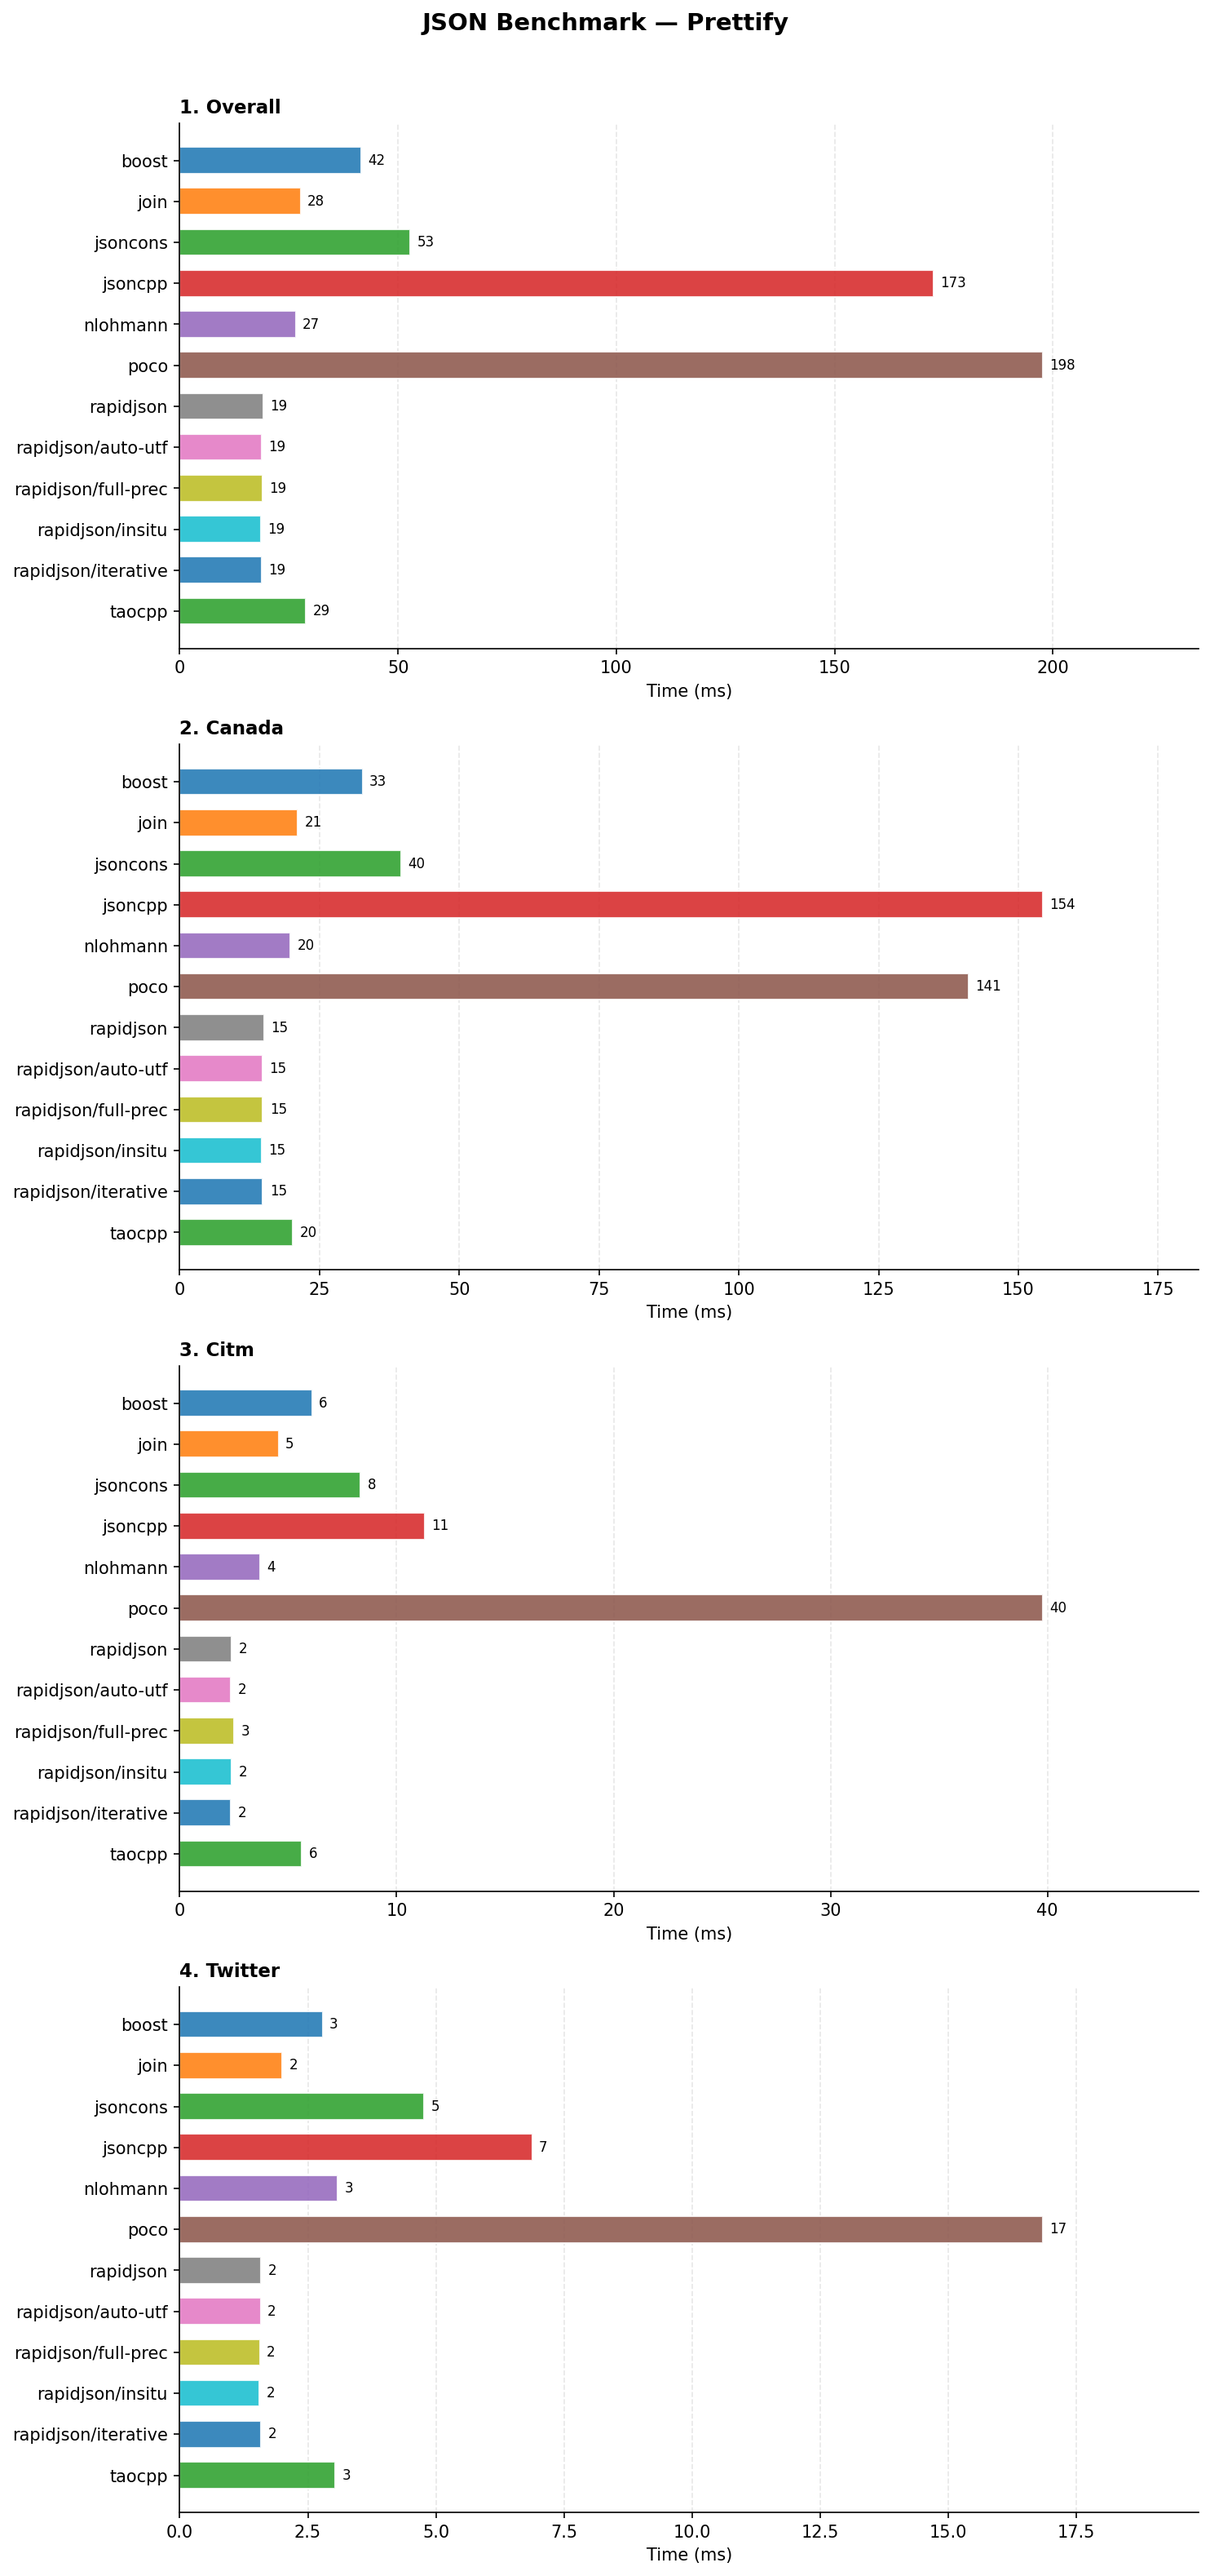
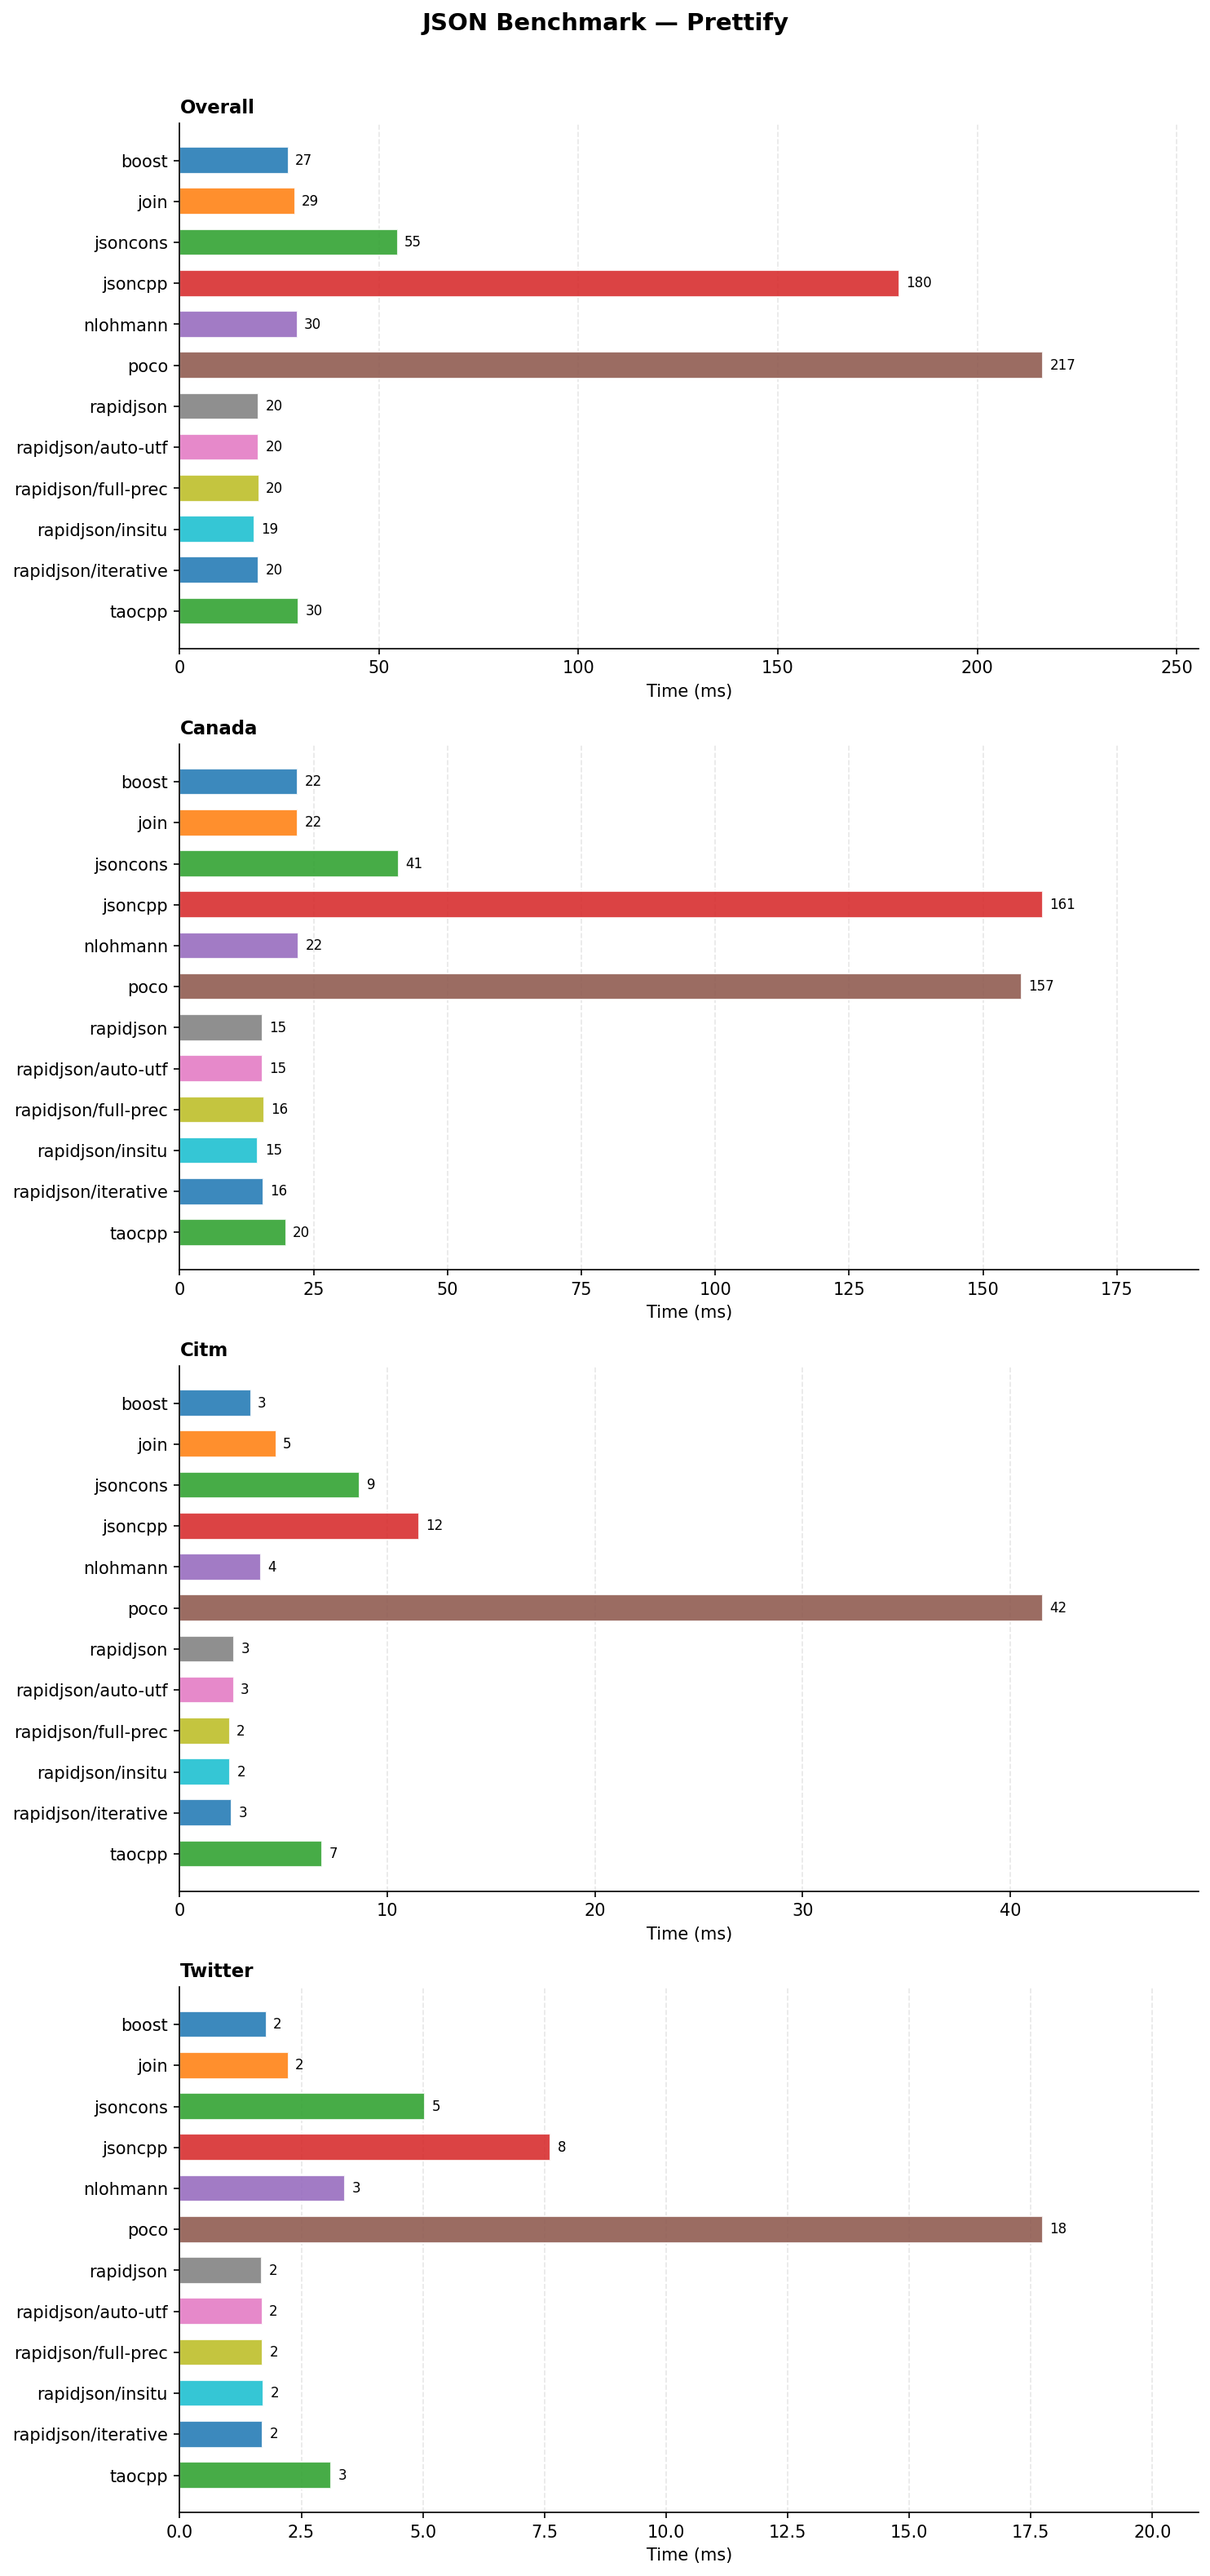
update results

diff --git a/plots/plot.py b/plots/plot.py
@@ -93,17 +93,17 @@ def plot_deserialize(df: pd.DataFrame, output_dir: Path) -> None:
 
     idx = 0
     totals = parse_df.groupby("library")["time_ms"].sum().sort_index(ascending=False)
-    _barh_ax(axes[idx], totals.index.tolist(), totals.values.tolist(), "1. Parse (overall)")
+    _barh_ax(axes[idx], totals.index.tolist(), totals.values.tolist(), "Overall")
     idx += 1
 
     for dataset in datasets:
         sub = parse_df[parse_df["dataset"] == dataset].groupby("library")["time_ms"].sum().sort_index(ascending=False)
-        _barh_ax(axes[idx], sub.index.tolist(), sub.values.tolist(), f"{idx + 1}. Parse — {dataset}")
+        _barh_ax(axes[idx], sub.index.tolist(), sub.values.tolist(), dataset)
         idx += 1
 
     if has_stats:
         totals = stats_df.groupby("library")["time_ms"].sum().sort_index(ascending=False)
-        _barh_ax(axes[idx], totals.index.tolist(), totals.values.tolist(), f"{idx + 1}. DOM Statistics")
+        _barh_ax(axes[idx], totals.index.tolist(), totals.values.tolist(), "DOM Statistics")
 
     fig.tight_layout(rect=[0, 0, 1, 0.97])
     out = output_dir / "performance_parse.png"
@@ -127,11 +127,11 @@ def _plot_write_bench(df: pd.DataFrame, output_dir: Path, bench_type: str, filen
     fig.suptitle(title, fontsize=14, fontweight="bold")
 
     totals = sub_df.groupby("library")["time_ms"].sum().sort_index(ascending=False)
-    _barh_ax(axes[0], totals.index.tolist(), totals.values.tolist(), "1. Overall")
+    _barh_ax(axes[0], totals.index.tolist(), totals.values.tolist(), "Overall")
 
     for idx, dataset in enumerate(datasets, start=1):
         per = sub_df[sub_df["dataset"] == dataset].groupby("library")["time_ms"].sum().sort_index(ascending=False)
-        _barh_ax(axes[idx], per.index.tolist(), per.values.tolist(), f"{idx + 1}. {dataset}")
+        _barh_ax(axes[idx], per.index.tolist(), per.values.tolist(), dataset)
 
     fig.tight_layout(rect=[0, 0, 1, 0.97])
     out = output_dir / filename
@@ -209,7 +209,7 @@ def plot_conformance(conf_path: str, output_dir: Path) -> None:
 
         ax.set_xlabel("%")
         ax.set_xlim(0, 115)
-        ax.set_title(label, fontsize=11, loc="left", pad=6)
+        ax.set_title(label, fontsize=11, fontweight="bold", loc="left", pad=6)
         _style_ax(ax)
 
     fig.tight_layout(rect=[0, 0, 1, 0.97])

diff --git a/benchmarks/adapters/simdjson.hpp b/benchmarks/adapters/simdjson.hpp
@@ -62,8 +62,8 @@ namespace simdjson_detail
 
     inline void pretty_impl (std::string& out, simdjson::dom::element e, int indent, int depth)
     {
-        const std::string pad (static_cast<size_t> (depth * indent), ' ');
-        const std::string inner (static_cast<size_t> ((depth + 1) * indent), ' ');
+        const auto pad_len   = static_cast<size_t> (depth * indent);
+        const auto inner_len = static_cast<size_t> ((depth + 1) * indent);
 
         switch (e.type ())
         {
@@ -77,7 +77,7 @@ namespace simdjson_detail
                         if (!first)
                             out += ',';
                         out += '\n';
-                        out += inner;
+                        out.append (inner_len, ' ');
                         out += escape_json_string (field.key);
                         out += ": ";
                         pretty_impl (out, field.value, indent, depth + 1);
@@ -86,7 +86,7 @@ namespace simdjson_detail
                     if (!first)
                     {
                         out += '\n';
-                        out += pad;
+                        out.append (pad_len, ' ');
                     }
                     out += '}';
                     break;
@@ -101,14 +101,14 @@ namespace simdjson_detail
                         if (!first)
                             out += ',';
                         out += '\n';
-                        out += inner;
+                        out.append (inner_len, ' ');
                         pretty_impl (out, elem, indent, depth + 1);
                         first = false;
                     }
                     if (!first)
                     {
                         out += '\n';
-                        out += pad;
+                        out.append (pad_len, ' ');
                     }
                     out += ']';
                     break;

diff --git a/README.md b/README.md
@@ -63,7 +63,7 @@ RapidJSON is benchmarked in five configurations to isolate the impact of its par
 | `citm_catalog.json` | ~1.7 MB | Event catalog — deeply nested objects, mixed types |
 | `twitter.json` | ~0.6 MB | Social feed — Unicode strings, many small objects |
 
-Performance time reported per benchmark is the median across all three datasets combined (ms).
+The overall time reported per benchmark is the sum of median times across all three datasets (ms). Each individual measurement is already the median across repetitions.
 
 ## Build
 
@@ -198,13 +198,13 @@ Measured on a development machine. Re-run `scripts/run_bench.sh` to reproduce on
 
 ![Prettify](plots/performance_prettify.png)
 
-**Parse**: **simdjson** leads at 6 ms, more than 1.8× faster than the next best (**RapidJSON** insitu at 11 ms). Among the general-purpose DOM libraries, **RapidJSON**'s in-situ mode leads thanks to its zero-copy string handling, followed closely by the default and iterative variants (13–14 ms) and **Boost.JSON** (15 ms). **Join** (26 ms) sits between **RapidJSON** and the slower libraries. **taocpp/json** (37 ms) is competitive. **jsoncons** (77 ms) and **nlohmann/json** (83 ms) are slower but similar; **POCO** (129 ms) and **JsonCpp** (159 ms) trail significantly.
+**Parse**: **simdjson** leads at 6 ms, more than 1.8× faster than the next best (**RapidJSON** insitu at 12 ms). Among the general-purpose DOM libraries, **RapidJSON**'s in-situ mode leads thanks to its zero-copy string handling, followed closely by the default and iterative variants (14–15 ms) and **Boost.JSON** (16 ms). **Join** (29 ms) sits between **RapidJSON** and the slower libraries. **taocpp/json** (38 ms) is competitive. **jsoncons** (76 ms) and **nlohmann/json** (91 ms) are slower but similar; **POCO** (136 ms) and **JsonCpp** (142 ms) trail significantly.
 
-**Stringify**: **Boost.JSON** leads at 10 ms. All **RapidJSON** variants cluster tightly at ~15 ms. **taocpp/json** (18 ms) and **simdjson** (18 ms, minified output only) follow. **nlohmann/json** (21 ms) and **Join** (22 ms) are close; **jsoncons** (25 ms) is slightly behind. **POCO** (63 ms) and **JsonCpp** (165 ms) are the slowest.
+**Stringify**: **Boost.JSON** leads at 11 ms. All **RapidJSON** variants cluster tightly at ~18 ms. **simdjson** (21 ms, minified output only) and **taocpp/json** (23 ms) follow. **Join** (23 ms) and **nlohmann/json** (24 ms) are close; **jsoncons** (27 ms) is slightly behind. **POCO** (71 ms) and **JsonCpp** (173 ms) are the slowest.
 
-**Prettify**: **RapidJSON** variants lead at 19 ms across all five modes. **nlohmann/json** (27 ms) and **Join** (28 ms) follow, with **taocpp/json** (29 ms) close behind. **Boost.JSON** (42 ms) and **jsoncons** (53 ms) are slower. **JsonCpp** (173 ms) and **POCO** (198 ms) trail by a wide margin.
+**Prettify**: **RapidJSON** variants lead at ~19 ms across all five modes. **Boost.JSON** (27 ms) follows closely. **Join** (29 ms), **nlohmann/json** (30 ms), and **taocpp/json** (30 ms) are close behind. **jsoncons** (55 ms) is slower. **JsonCpp** (180 ms) and **POCO** (217 ms) trail by a wide margin.
 
-**Statistics**: **RapidJSON**'s five variants cluster at ~1 ms — their contiguous memory pool layout maximises cache efficiency. **jsoncons** (1.6 ms), **simdjson** (1.7 ms), **Boost.JSON** (1.9 ms), and **taocpp/json** (1.9 ms) all follow closely. **Join** (3.3 ms) and **nlohmann/json** (3.5 ms) are about 2× slower than **RapidJSON**. **JsonCpp** (16 ms) and **POCO** (22 ms) are again the outliers.
+**Statistics**: **RapidJSON**'s five variants cluster at ~1 ms — their contiguous memory pool layout maximises cache efficiency. **Boost.JSON** (1.6 ms), **jsoncons** (1.7 ms), **simdjson** (1.7 ms), and **taocpp/json** (2.0 ms) all follow closely. **Join** (3.5 ms) and **nlohmann/json** (3.8 ms) are about 3× slower than **RapidJSON**. **JsonCpp** (17 ms) and **POCO** (19 ms) are again the outliers.
 
 Raw throughput is only part of the picture. A parser that silently accepts malformed input, produces slightly wrong floating-point values, or mangles escape sequences can introduce subtle bugs that are hard to reproduce and trace. The conformance suite measures what matters in production: does the library correctly reject invalid JSON, parse numbers to the right `double`, decode strings exactly as the spec requires, and reproduce the original representation on roundtrip?
 
@@ -224,13 +224,13 @@ Raw throughput is only part of the picture. A parser that silently accepts malfo
 
 The best libraries are those that are both fast and correct. Several stand out on both axes:
 
-- **RapidJSON** is the top pick when you need maximum speed without sacrificing correctness: the `full-prec` mode achieves perfect conformance (136/136) and remains the fastest general-purpose DOM parser (`insitu` at 11 ms, `full-prec` at 13 ms), with the fastest serialiser among DOM libraries. When raw parse speed is the priority and float precision is not critical, `insitu` or `default` mode trade those 18 double cases for a further 15–20% speedup.
-- **Join** achieves perfect conformance (136/136) — perfect double precision and a perfect roundtrip score — while parsing nearly as fast as RapidJSON's default mode (26 ms). It is the strongest all-rounder when both correctness and performance matter.
-- **taocpp/json** also reaches perfect conformance (136/136) with competitive performance across all categories (parse 37 ms, stringify 18 ms, prettify 29 ms). A solid choice when correctness is non-negotiable and RapidJSON's API is not a fit.
+- **RapidJSON** offers the best overall speed profile: `insitu` (12 ms) and `default` (14 ms) are the fastest general-purpose DOM parsers, with all five variants leading in both stringify (~18 ms) and prettify (~19 ms). `full-prec` adds bitwise-accurate double parsing at a parse cost (22 ms) but still achieves perfect conformance (136/136). When float precision is not critical, `insitu` or `default` mode give maximum throughput at the cost of 18 double-precision cases.
+- **Join** achieves perfect conformance (136/136) — perfect double precision and a perfect roundtrip score — while parsing nearly as fast as RapidJSON's default mode (29 ms). It is the strongest all-rounder when both correctness and performance matter.
+- **taocpp/json** also reaches perfect conformance (136/136) with competitive performance across all categories (parse 38 ms, stringify 23 ms, prettify 30 ms). A solid choice when correctness is non-negotiable and RapidJSON's API is not a fit.
 - **simdjson** is the fastest parser by a wide margin (~1.8× faster than RapidJSON insitu at 6 ms) with strong conformance scores, but it is a read-only library. Use it when you only need to read JSON at maximum speed and do not need to modify or re-serialise the document.
-- **nlohmann/json** offers perfect double precision and near-perfect roundtrip (26/27) in a widely used, ergonomic API, at the cost of parse throughput (83 ms). A reasonable default when correctness and ease of use outweigh raw speed.
-- **jsoncons** achieves near-perfect conformance (134/136) with the best statistics performance among non-RapidJSON DOM libraries (1.6 ms). Parse speed (77 ms) is comparable to nlohmann.
-- **Boost.JSON** is the fastest serialiser overall (10 ms) with solid parse performance (15 ms), but its roundtrip score (19/27) is a concern if exact decimal reproduction of floats matters.
+- **nlohmann/json** offers perfect double precision and near-perfect roundtrip (26/27) in a widely used, ergonomic API, at the cost of parse throughput (91 ms). A reasonable default when correctness and ease of use outweigh raw speed.
+- **jsoncons** achieves near-perfect conformance (134/136) with competitive statistics performance (1.7 ms). Parse speed (76 ms) is comparable to nlohmann.
+- **Boost.JSON** is the fastest serialiser (11 ms), ranks second in prettify (27 ms, just behind RapidJSON), and has solid parse performance (16 ms). Its roundtrip score (19/27) is a concern if exact decimal reproduction of floats matters.
 - **JsonCpp** and **POCO** are consistently the slowest in every performance category and offer no conformance advantage. They are best avoided in performance-sensitive code.
 
 ## License
